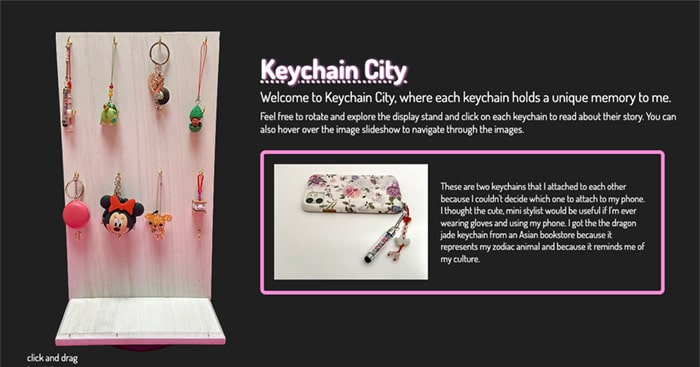
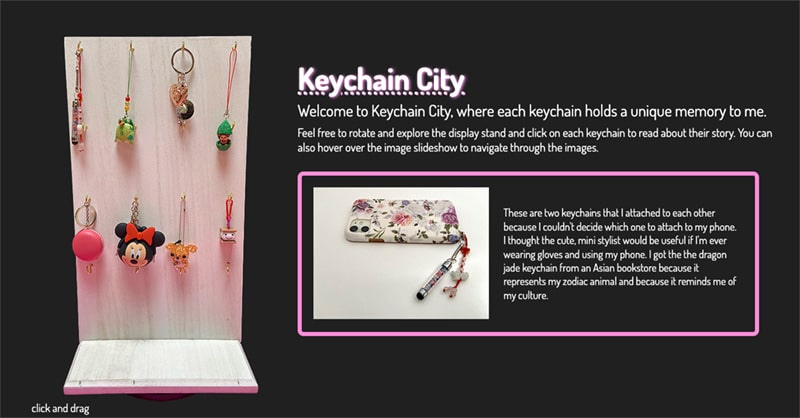
made changes to desktop images

diff --git a/portfolio/script.js b/portfolio/script.js
@@ -52,4 +52,26 @@
       prevActiveBtn = i;
     });
   }
+
+  // MOBILE / DESKTOP IMAGES
+  const images = document.querySelectorAll(".image");
+
+  window.addEventListener("load", function () {
+    changeImageSrc();
+  });
+  window.addEventListener("resize", function () {
+    changeImageSrc();
+  });
+
+  function changeImageSrc() {
+    if (window.innerWidth > 1020 && images[0].src.includes("mobile")) {
+      images.forEach(function (eachImage) {
+        eachImage.src = `${eachImage.src.replace("mobile", "desktop")}`;
+      });
+    } else if (window.innerWidth < 1020 && images[0].src.includes("desktop")) {
+      images.forEach(function (eachImage) {
+        eachImage.src = `${eachImage.src.replace("desktop", "mobile")}`;
+      });
+    }
+  }
 })();
